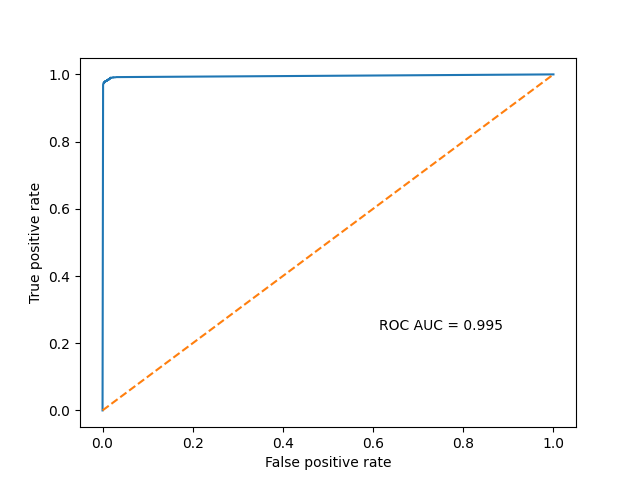
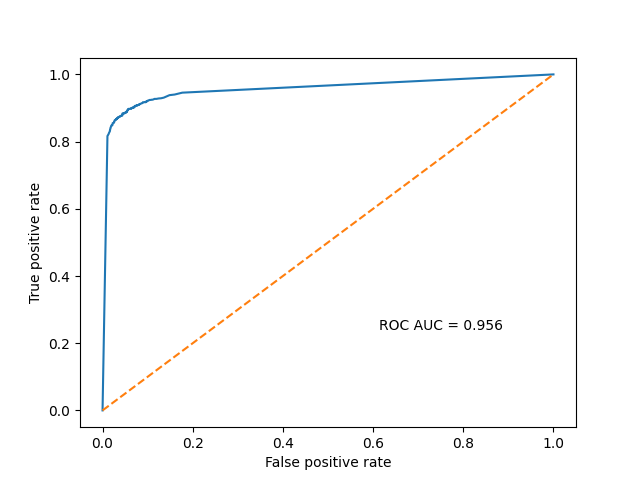
Added generator to shuffle

Changed region(s): [[0.1562, 0.125, 0.8438, 0.8125], [0.75, 0.6562, 0.7812, 0.6875]]

diff --git a/metrics.py b/metrics.py
@@ -5,9 +5,10 @@ import numpy as np
 from pytorch_lightning import Trainer
 
 
-metrics_path = "/home/s/swein/gwdet/main/lightning_logs/version_4/metrics.csv"
+metrics_path = "/home/s/swein/gwdet/main/lightning_logs/version_14/metrics.csv"
 conv = lambda x: float(x) if x!="" else None
-epoch, step, train_acc, train_loss, val_acc, val_loss \
+epoch, step, train_acc_epoch, train_acc_step, train_loss_epoch, \
+    train_loss_step, val_acc, val_loss \
     = np.loadtxt(metrics_path, delimiter=",", skiprows=1, converters=conv, 
                  unpack=True)
 
@@ -17,24 +18,24 @@ def plot_ignore_nan(ax, x, y, *args, **kwargs):
 
 # Learning curve
 fig, ax = plt.subplots()
-plot_ignore_nan(ax, step, train_loss)
-ax.set_xlabel("Epoch")
+plot_ignore_nan(ax, step, train_loss_step)
+ax.set_xlabel("Step")
 ax.set_ylabel("Loss")
 fig.suptitle("Learning curve")
 fig.savefig("learning_curve.png")
 
 # Accuracy
 fig, ax = plt.subplots()
-plot_ignore_nan(ax, step, train_acc, label="Train data")
+plot_ignore_nan(ax, step, train_acc_step, label="Train data")
 plot_ignore_nan(ax, step, val_acc, label="Train data")
-ax.set_xlabel("Epoch")
+ax.set_xlabel("Step")
 ax.set_ylabel("Accuracy")
 ax.legend(frameon=False)
 fig.savefig("accuracy.png")
 
 batch_size = 64
 data = Data("/scratch/tmp/swein/ggwd/output/bbh.hdf", batch_size=batch_size, num_workers=4)
-checkpoint_path = "/home/s/swein/gwdet/main/lightning_logs/version_4/checkpoints/epoch=19-step=4100.ckpt"
+checkpoint_path = "/home/s/swein/gwdet/main/lightning_logs/version_14/checkpoints/epoch=19-step=4100.ckpt"
 model = Conv1dModel.load_from_checkpoint(checkpoint_path)
 trainer = Trainer(logger=False)
 trainer.test(model, datamodule=data)

diff --git a/data.py b/data.py
@@ -40,9 +40,9 @@ class Data(LightningDataModule):
         super().__init__()
         dataset = GGWDDataset(file_path)
         self.sample_shape = dataset.sample_shape
-        generator = torch.Generator().manual_seed(42)
+        self.generator = torch.Generator().manual_seed(42)
         self.train_dataset, self.val_dataset \
-            = random_split(dataset, (0.8, 0.2), generator=generator)
+            = random_split(dataset, (0.8, 0.2), generator=self.generator)
         self.test_dataset = self.val_dataset # Subset(self.val_dataset, range(512))
         self.batch_size = batch_size
         self.num_workers = num_workers
@@ -51,6 +51,7 @@ class Data(LightningDataModule):
         return DataLoader(self.train_dataset, 
                           batch_size=self.batch_size, 
                           shuffle=True, 
+                          generator=self.generator,
                           num_workers=self.num_workers)
     
     def val_dataloader(self):

diff --git a/main.py b/main.py
@@ -12,7 +12,7 @@ def main():
     input_size = np.prod(data.sample_shape)
     model = Conv1dModel(learning_rate=0.0005)
     summary(model, input_size=(batch_size, *data.sample_shape))
-    trainer = Trainer(max_epochs=2)
+    trainer = Trainer(max_epochs=10)
     trainer.fit(model, data)
 
 
